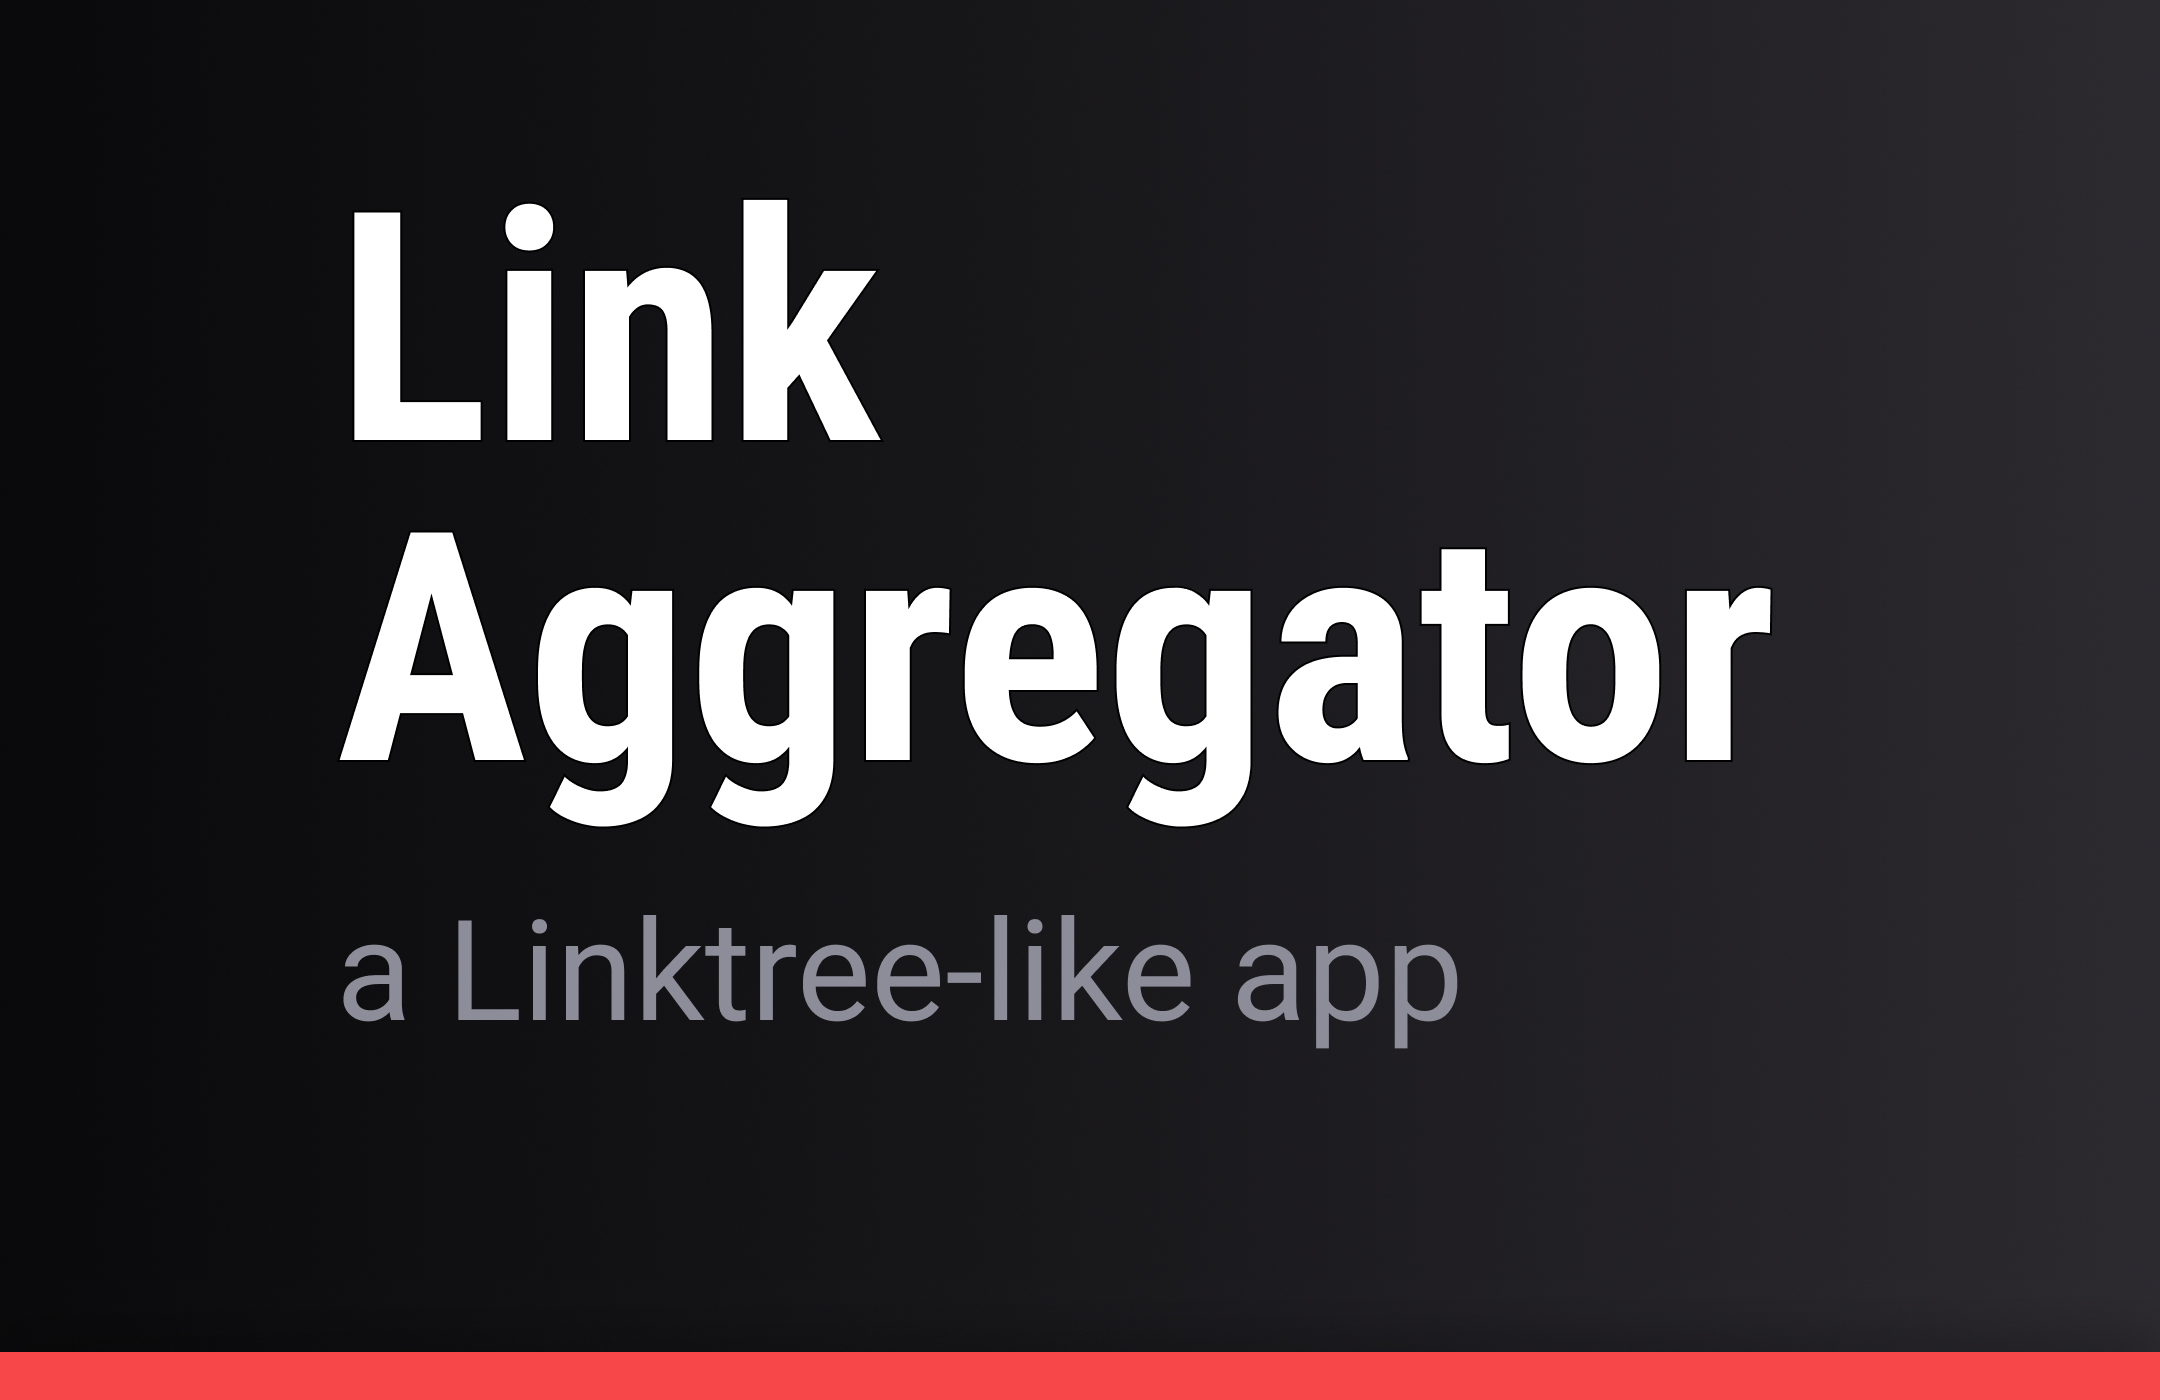
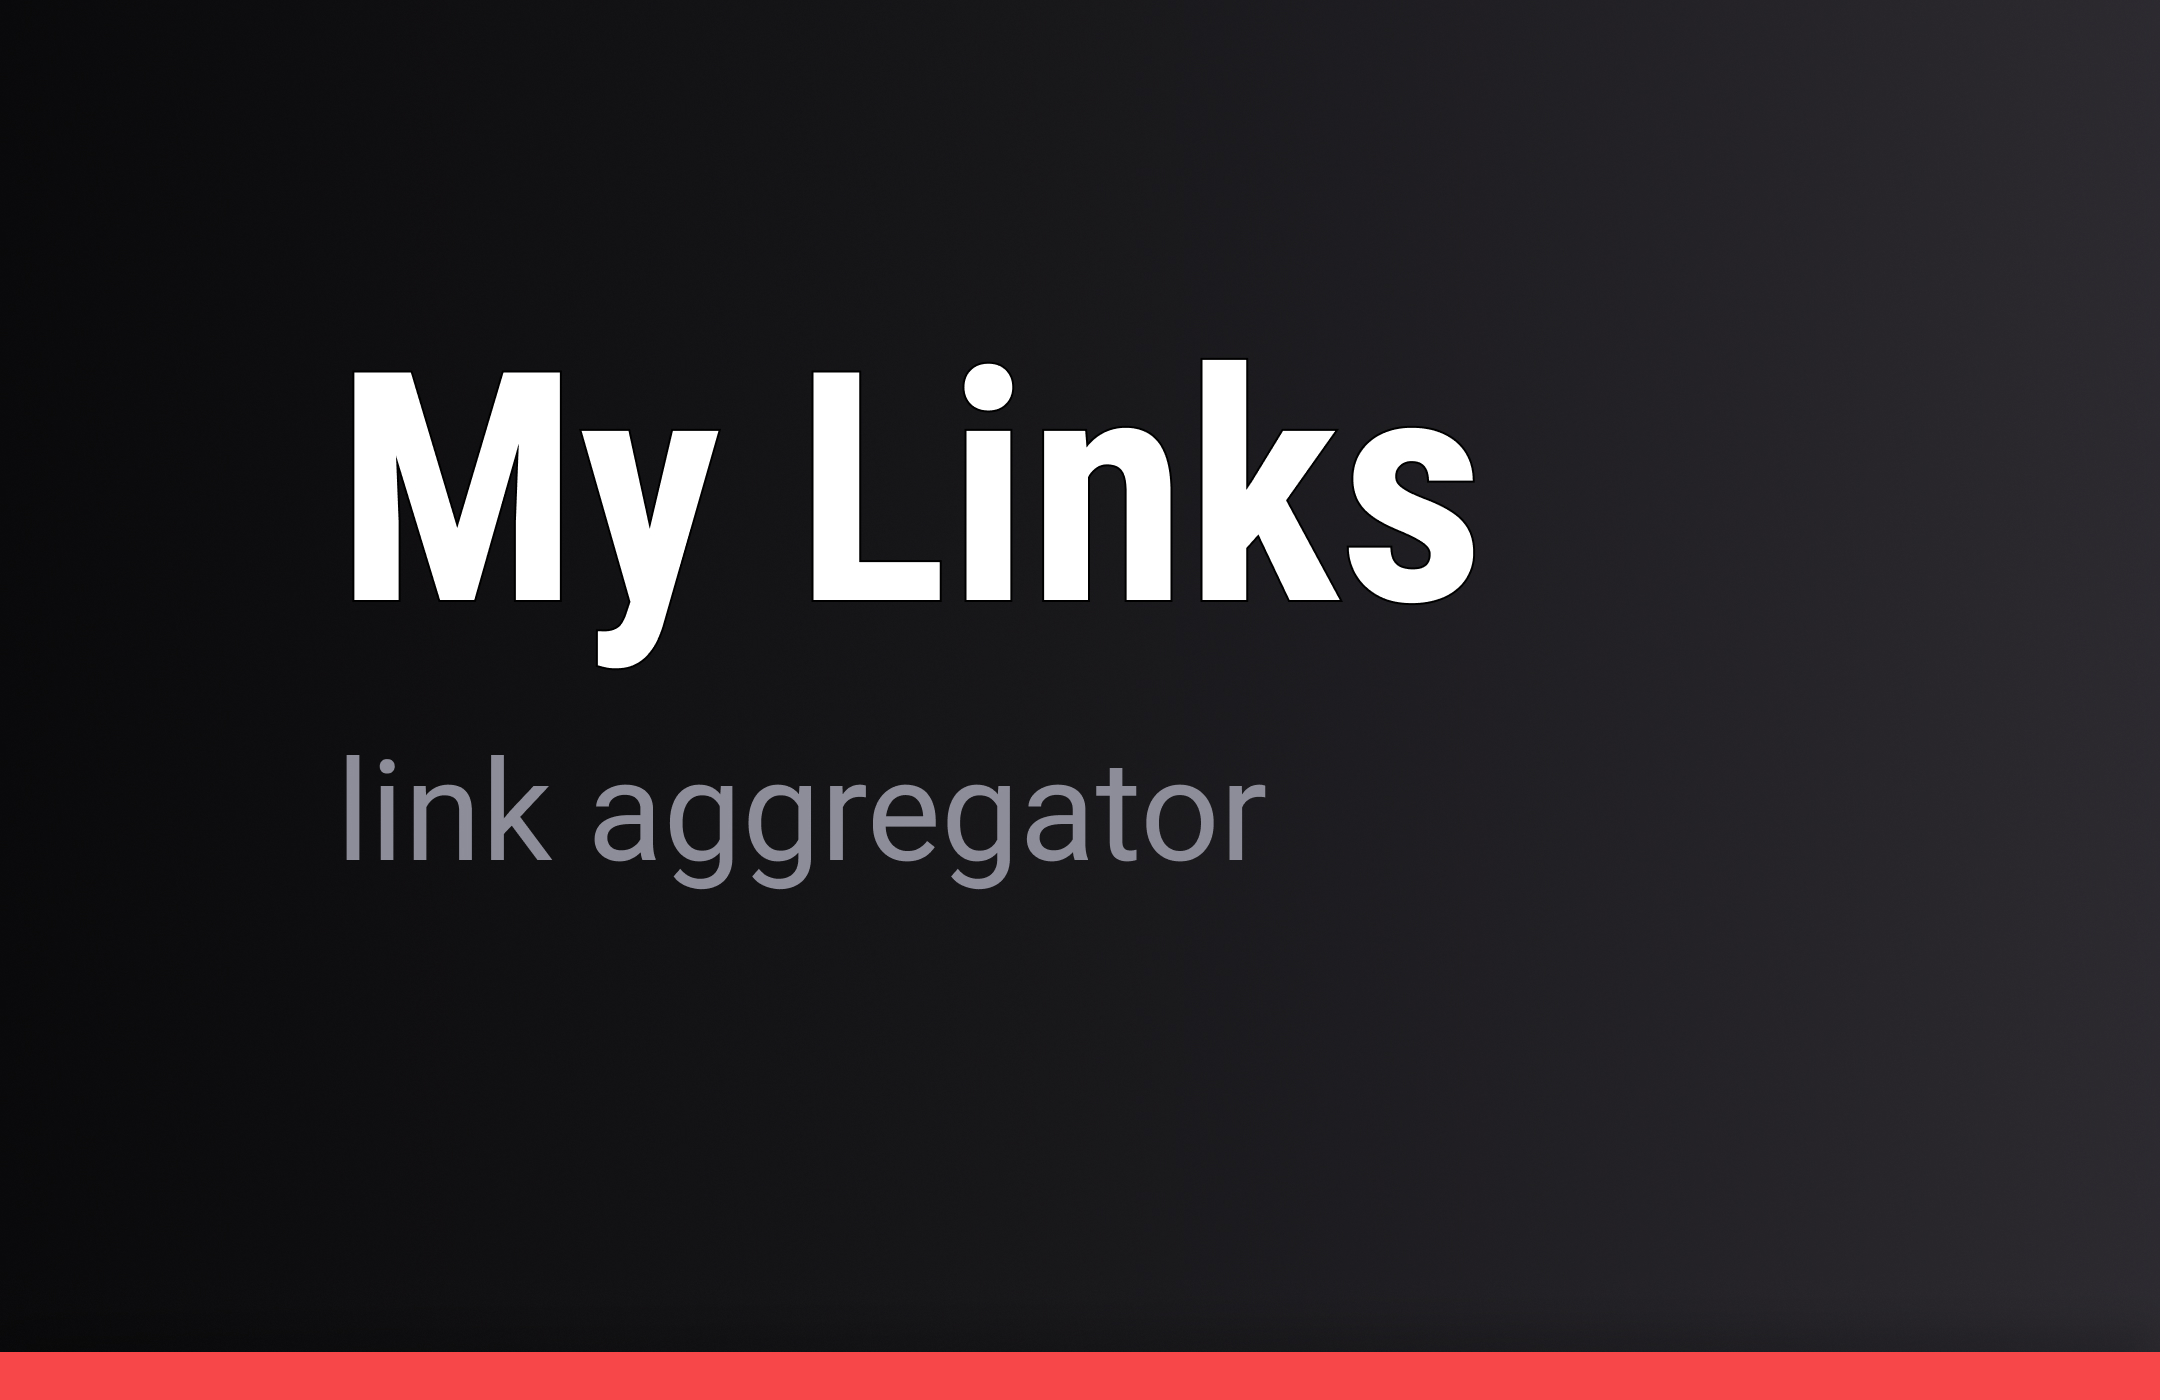
README corrections

Changed region(s): [[0.1551, 0.1229, 0.8375, 0.7371], [0.1551, 0.1536, 0.1861, 0.2764]]

diff --git a/README.md b/README.md
@@ -1,10 +1,10 @@
-<h1 align="center"> Link Aggregator </h1>
+<h1 align="center"> My Links </h1>
 
 <p align="center">
-Web application for publishing links in an clean and organized way. <br/>
+Web application for publishing links in a clean and organized way. <br/>
 
 <p align="center">
-  <a href="#-tecnologias">Tecnologies</a>&nbsp;&nbsp;&nbsp;|&nbsp;&nbsp;&nbsp;
+  <a href="#-tecnologias">Technologies</a>&nbsp;&nbsp;&nbsp;|&nbsp;&nbsp;&nbsp;
   <a href="#-projeto">Project</a>&nbsp;&nbsp;&nbsp;|&nbsp;&nbsp;&nbsp;
   <a href="#memo-licença">License</a>
 </p>
@@ -19,9 +19,9 @@ Web application for publishing links in an clean and organized way. <br/>
   <img alt="Projeto Link Aggregator" src=".github/cover.jpg" width="100%">
 </p>
 
-## 🚀 Tecnologies
+## 🚀 Technologies
 
-Esse projeto foi desenvolvido com as seguintes tecnologias:
+This project was developed with the following tech:
 
 - HTML and CSS
 - JavaScript
@@ -30,7 +30,7 @@ Esse projeto foi desenvolvido com as seguintes tecnologias:
 
 ## 💻 Project
 
-The Link Aggregator it's a Linktree-like app for powering creators that need to share their links to their audience; it's best used for a online visit-card type website.
+My Links it's a Linktree-like app for powering creators that need to share their links to their audience; it's best used for a online visit-card type website.
 
 It was based on the Rocketseat's DevLinks project, that is available on the Discover trail in app.rocketseat.com/dashboard (subscription required).
 
